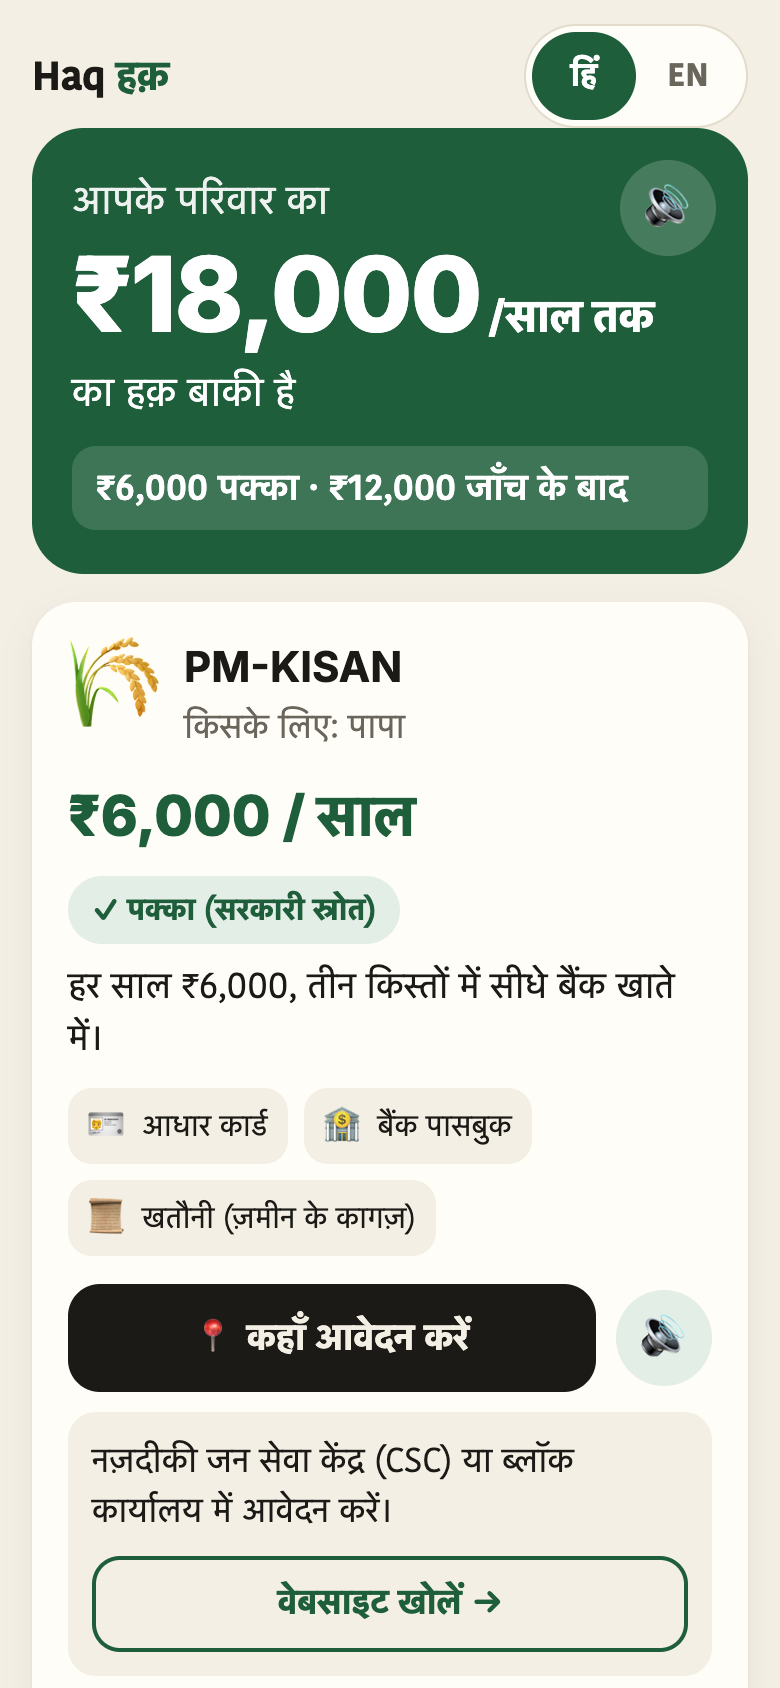
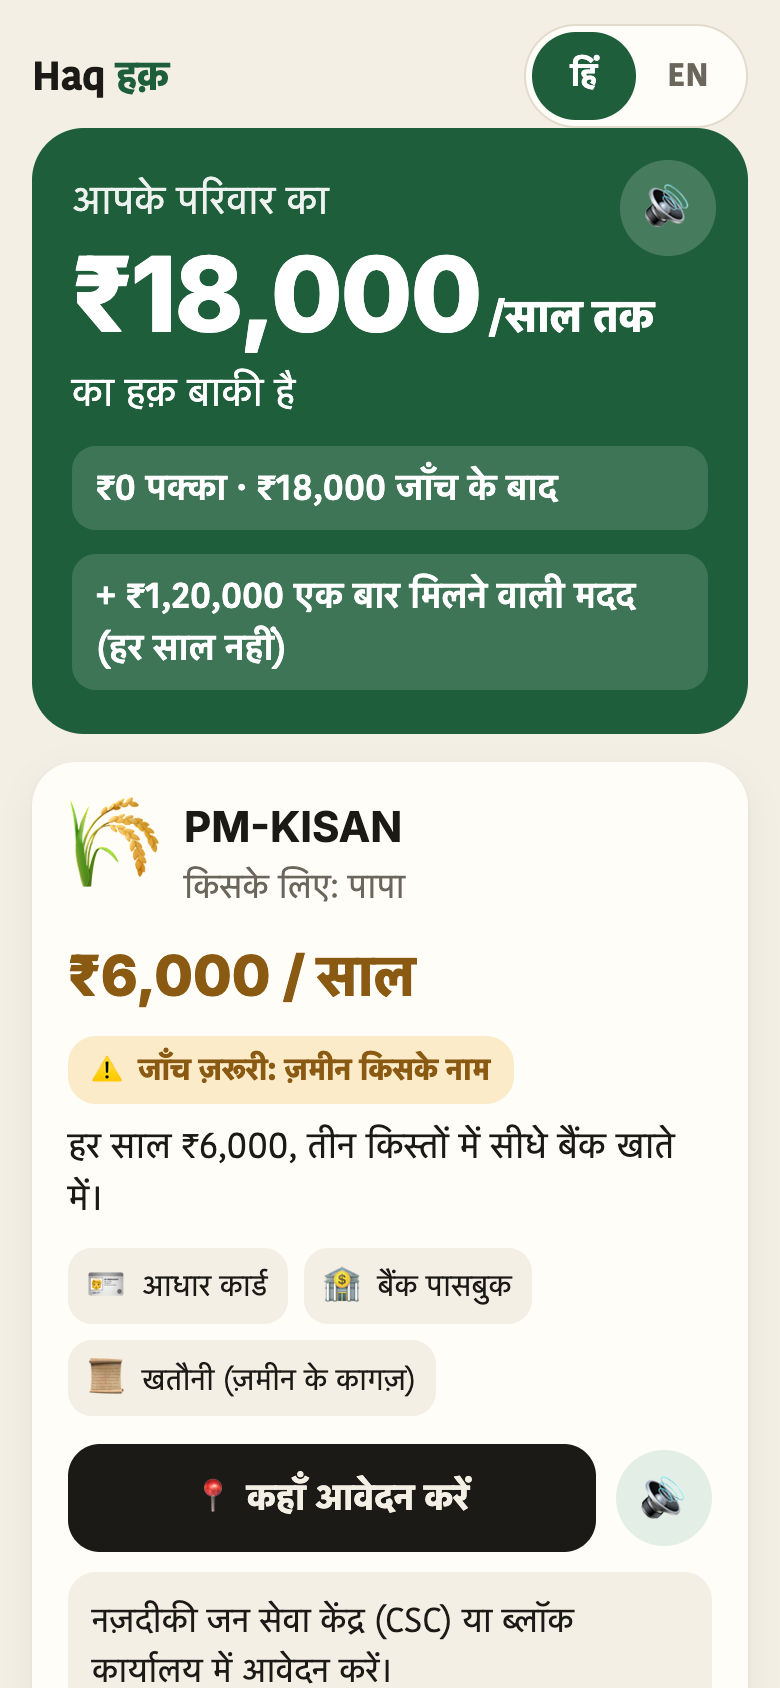
TEST_REPORT: final stress re-run after Phase 2 fixes; refreshed screenshots
65/65 scenarios clean, 25/25 concurrent sessions. 3 console errors were
net::ERR_INTERNET_DISCONNECTED on the Google Fonts stylesheet during a
network drop on the test machine; the affected scenarios re-ran clean.
Screenshots now show the one-time help line, 'one-time' on PMAY-G and the
one-pension note. Layout check: 15/15 clean.

Entire-Checkpoint: 01M4N17XYEXHZQVK5JDK03P1MZ

diff --git a/TEST_REPORT.md b/TEST_REPORT.md
@@ -93,7 +93,7 @@ Thirteen links still fail Python's strict TLS check. They are all missing an int
 | A long text was sent to the model in full | Text is capped at 3,000 characters on the server |
 | 25 concurrent sessions took about 33 s each, because the state file was re-parsed on every poll | The state is parsed once per process. Sessions now take 17–23 s |
 
-**Final run:** last complete run 65/65 scenarios clean, 0 issues, 25/25 concurrent sessions (17.5–22.9 s). A re-run covering the new one-time and pension display is pending and will be added here.
+**Final run** (after all Phase 2 display fixes): 65 of 65 scenarios clean, 25 of 25 concurrent sessions completed (20.9–25.8 s each). The run logged 3 console errors, all `net::ERR_INTERNET_DISCONNECTED` on the Google Fonts stylesheet, during a brief network drop on the test machine. Re-running the affected scenarios (the dead-button sweeps, both languages) gave 0 issues. UI screenshots were refreshed, and the layout check found 15 of 15 screens clean with 0 console errors.
 
 ## Phase 2 — Real API (hard cap $2)
 
